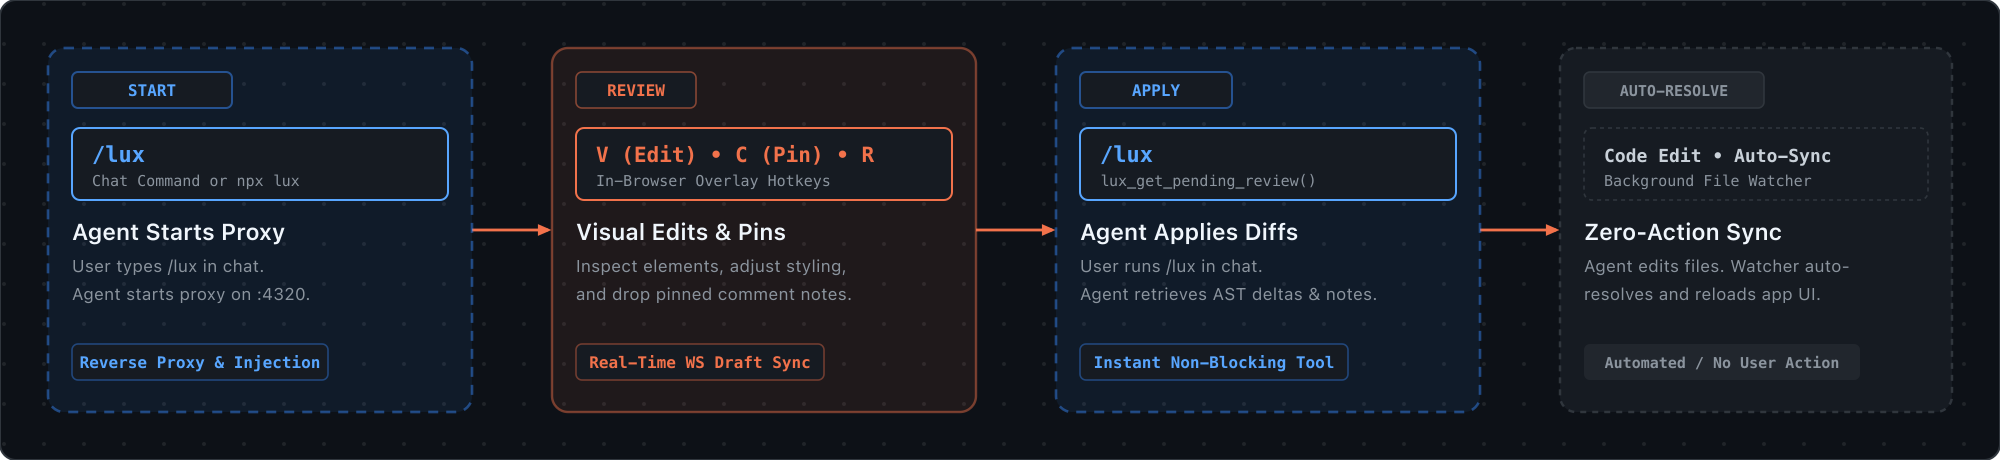
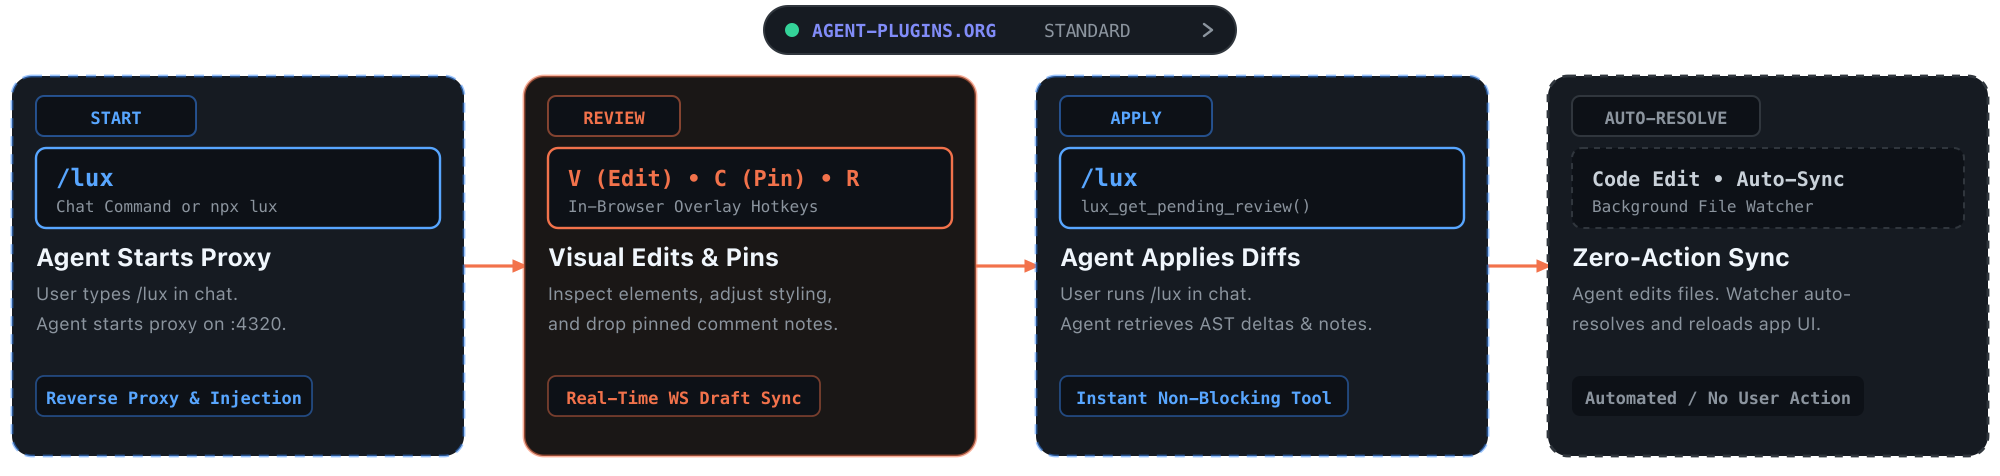
style(docs): expand workflow diagram, remove outer frame, and add agent-plugins tag

diff --git a/README.md b/README.md
@@ -3,6 +3,7 @@
 In-browser visual editing, annotation, and review overlay for AI coding agents.
 
 [![MCP](https://img.shields.io/badge/MCP-Model%20Context%20Protocol-38bdf8.svg)](https://modelcontextprotocol.io)
+[![Agent Plugins](https://img.shields.io/badge/Agent%20Plugin-Standard-6366f1.svg)](https://agent-plugins.org/)
 [![TypeScript](https://img.shields.io/badge/TypeScript-5.7-blue.svg)](https://www.typescriptlang.org)
 [![License: MIT](https://img.shields.io/badge/License-MIT-emerald.svg)](./LICENSE)
 [![Privacy](https://img.shields.io/badge/Privacy-100%25%20Local-purple.svg)](./PRIVACY.md)

diff --git a/packages/cli/README.md b/packages/cli/README.md
@@ -3,6 +3,7 @@
 In-browser visual editing, annotation, and review overlay for AI coding agents.
 
 [![MCP](https://img.shields.io/badge/MCP-Model%20Context%20Protocol-38bdf8.svg)](https://modelcontextprotocol.io)
+[![Agent Plugins](https://img.shields.io/badge/Agent%20Plugin-Standard-6366f1.svg)](https://agent-plugins.org/)
 [![TypeScript](https://img.shields.io/badge/TypeScript-5.7-blue.svg)](https://www.typescriptlang.org)
 [![License: MIT](https://img.shields.io/badge/License-MIT-emerald.svg)](./LICENSE)
 [![Privacy](https://img.shields.io/badge/Privacy-100%25%20Local-purple.svg)](./PRIVACY.md)
